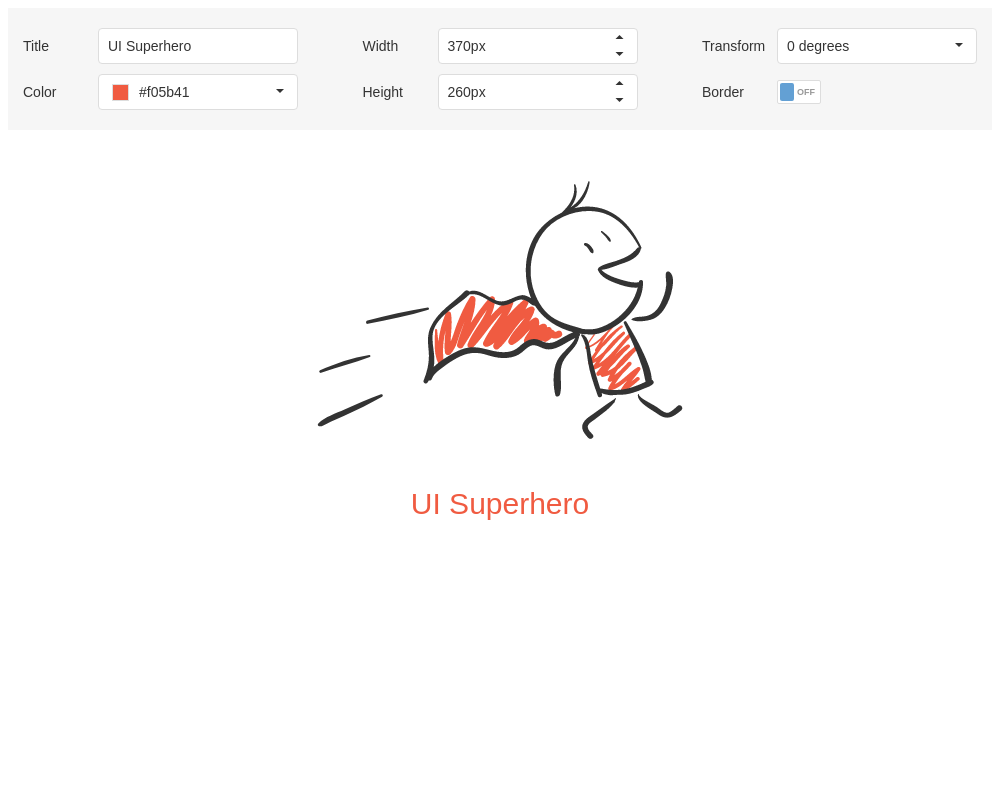
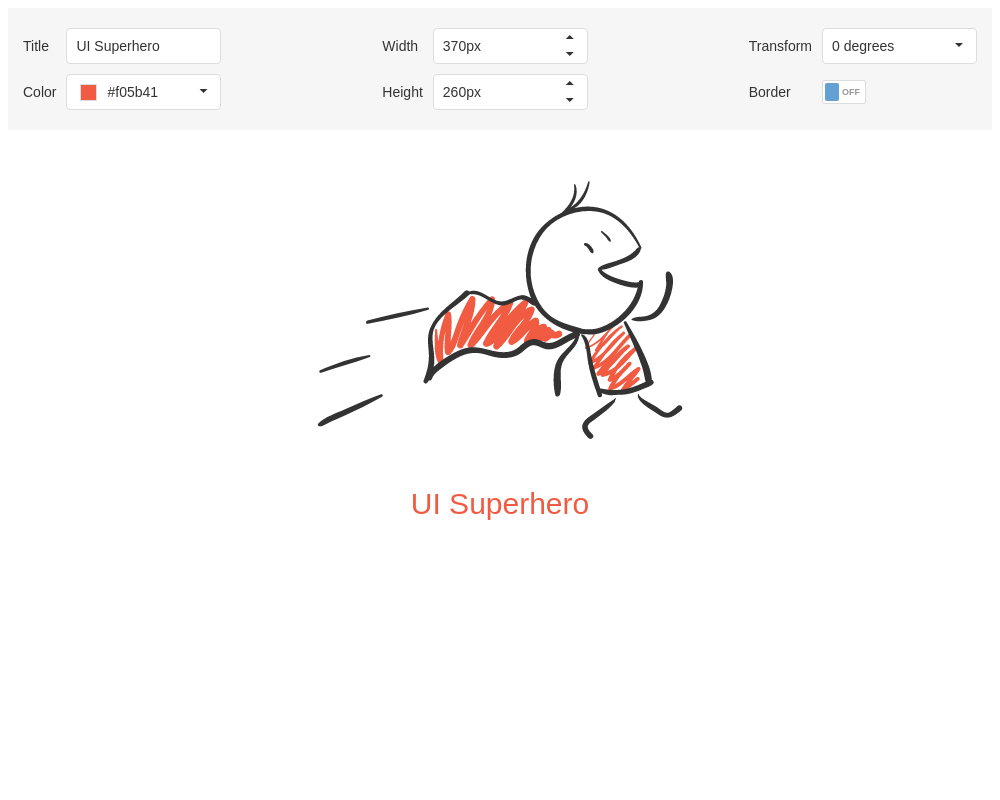
Fix Editors Overview demo for narrow screens (#1214)
* Fix Editors Overview demo for narrow screens

* change etalon

diff --git a/JSDemos/Demos/Common/EditorsOverview/Angular/app/app.component.css b/JSDemos/Demos/Common/EditorsOverview/Angular/app/app.component.css
@@ -9,14 +9,15 @@
     padding: 5px 0;
     display: flex;
     align-items: center;
+    justify-content: space-between;
 }
 
 ::ng-deep .settings .column .field .label {
-    width: 75px;
+    padding-right: 10px;
 }
 
 ::ng-deep .settings .column .field .value {
-    width: 200px;
+    width: 155px;
 }
 
 ::ng-deep .dx-theme-generic .settings .column .field .value .dx-switch {

diff --git a/JSDemos/Demos/Common/EditorsOverview/Vue/App.vue b/JSDemos/Demos/Common/EditorsOverview/Vue/App.vue
@@ -149,14 +149,15 @@ export default {
     padding: 5px 0;
     display: flex;
     align-items: center;
+    justify-content: space-between;
 }
 
 .settings .column .field .label {
-    width: 75px;
+    padding-right: 10px;
 }
 
 .settings .column .field .value {
-    width: 200px;
+    width: 155px;
 }
 
 .dx-theme-generic .settings .column .field .value .dx-switch {

diff --git a/JSDemos/Demos/Common/EditorsOverview/AngularJS/styles.css b/JSDemos/Demos/Common/EditorsOverview/AngularJS/styles.css
@@ -9,14 +9,15 @@
     padding: 5px 0;
     display: flex;
     align-items: center;
+    justify-content: space-between;
 }
 
 .settings .column .field .label {
-    width: 75px;
+    padding-right: 10px;
 }
 
 .settings .column .field .value {
-    width: 200px;
+    width: 155px;
 }
 
 .dx-theme-generic .settings .column .field .value .dx-switch {

diff --git a/JSDemos/Demos/Common/EditorsOverview/Knockout/styles.css b/JSDemos/Demos/Common/EditorsOverview/Knockout/styles.css
@@ -9,14 +9,15 @@
     padding: 5px 0;
     display: flex;
     align-items: center;
+    justify-content: space-between;
 }
 
 .settings .column .field .label {
-    width: 75px;
+    padding-right: 10px;
 }
 
 .settings .column .field .value {
-    width: 200px;
+    width: 155px;
 }
 
 .dx-theme-generic .settings .column .field .value .dx-switch {

diff --git a/JSDemos/Demos/Common/EditorsOverview/React/styles.css b/JSDemos/Demos/Common/EditorsOverview/React/styles.css
@@ -9,14 +9,15 @@
     padding: 5px 0;
     display: flex;
     align-items: center;
+    justify-content: space-between;
 }
 
 .settings .column .field .label {
-    width: 75px;
+    padding-right: 10px;
 }
 
 .settings .column .field .value {
-    width: 200px;
+    width: 155px;
 }
 
 .dx-theme-generic .settings .column .field .value .dx-switch {

diff --git a/JSDemos/Demos/Common/EditorsOverview/jQuery/styles.css b/JSDemos/Demos/Common/EditorsOverview/jQuery/styles.css
@@ -9,14 +9,15 @@
     padding: 5px 0;
     display: flex;
     align-items: center;
+    justify-content: space-between;
 }
 
 .settings .column .field .label {
-    width: 75px;
+    padding-right: 10px;
 }
 
 .settings .column .field .value {
-    width: 200px;
+    width: 155px;
 }
 
 .dx-theme-generic .settings .column .field .value .dx-switch {

diff --git a/MVCDemos/Content/DemosStyles/Common/EditorsOverview.css b/MVCDemos/Content/DemosStyles/Common/EditorsOverview.css
@@ -9,14 +9,15 @@
     padding: 5px 0;
     display: flex;
     align-items: center;
+    justify-content: space-between;
 }
 
 .settings .column .field .label {
-    width: 75px;
+    padding-right: 10px;
 }
 
 .settings .column .field .value {
-    width: 200px;
+    width: 155px;
 }
 
 .dx-theme-generic .settings .column .field .value .dx-switch {

diff --git a/NetCoreDemos/wwwroot/css/DemosStyles/Common/EditorsOverview.css b/NetCoreDemos/wwwroot/css/DemosStyles/Common/EditorsOverview.css
@@ -9,14 +9,15 @@
     padding: 5px 0;
     display: flex;
     align-items: center;
+    justify-content: space-between;
 }
 
 .settings .column .field .label {
-    width: 75px;
+    padding-right: 10px;
 }
 
 .settings .column .field .value {
-    width: 200px;
+    width: 155px;
 }
 
 .dx-theme-generic .settings .column .field .value .dx-switch {
